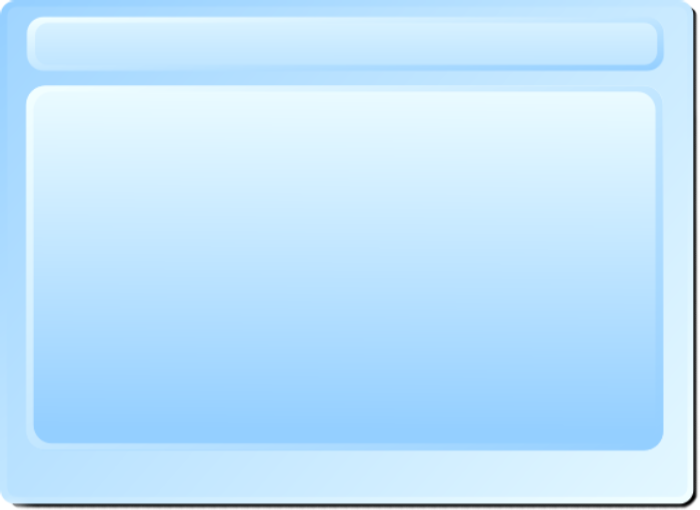
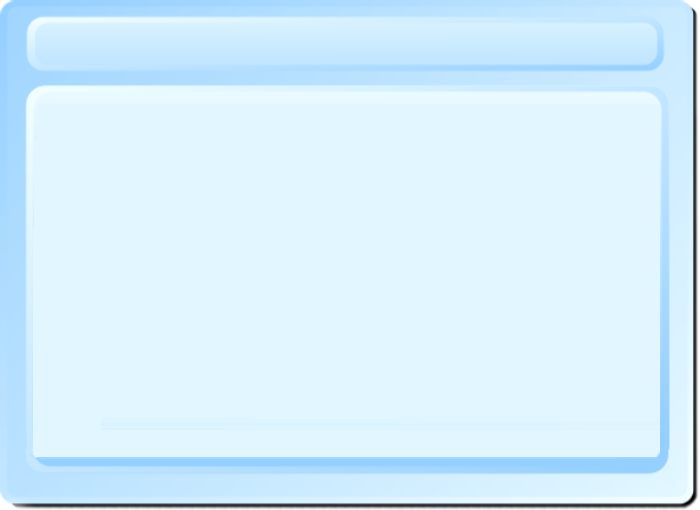
Added scroolbars in the help dialogs. 	Added an entry in skin.c to get a GdkColor : gcompris_skin_get_gdkcolor() 	Changed confirmation dialog to use the new colors for dialogs in skins

diff --git a/src/gcompris/help.c b/src/gcompris/help.c
@@ -1,6 +1,6 @@
 /* gcompris - help.c
  *
- * Time-stamp: <2005/10/31 23:00:03 bruno>
+ * Time-stamp: <2006/04/09 23:28:08 bruno>
  *
  * Copyright (C) 2000 Bruno Coudoin
  *
@@ -23,6 +23,7 @@
  * The bar button common to each games
  *
  */
+#include <string.h>
 
 #include "gcompris.h"
 
@@ -35,9 +36,6 @@
 
 #define GAP_TO_BUTTON -20
 
-#define COLOR_SELECTED   0x34682aFF
-#define COLOR_UNSELECTED 0x4252ffFF
-
 static gint	 item_event_help(GnomeCanvasItem *item, GdkEvent *event, gpointer data);
 static void	 select_item(GnomeCanvasItem *item, GnomeCanvasItem *item_text);
 static void	 set_content(char *text);
@@ -45,7 +43,6 @@ static void	 set_content(char *text);
 static gboolean help_displayed			= FALSE;
 
 static GnomeCanvasItem *rootitem		= NULL;
-static GnomeCanvasItem *item_content		= NULL;
 
 static gchar *prerequisite			= NULL;
 static gchar *goal				= NULL;
@@ -65,7 +62,7 @@ static GnomeCanvasItem *item_credit_text        = NULL;
 static GnomeCanvasItem *item_selected		= NULL;
 static GnomeCanvasItem *item_selected_text	= NULL;
 
-
+static GtkTextBuffer   *buffer_content;
 /*
  * Main entry point 
  * ----------------
@@ -205,7 +202,7 @@ void gcompris_help_start (GcomprisBoard *gcomprisBoard)
 				    "x", (double)  BOARDWIDTH*0.20,
 				    "y", (double)  y_start - gdk_pixbuf_get_height(pixmap)  + GAP_TO_BUTTON,
 				    "anchor", GTK_ANCHOR_CENTER,
-				    "fill_color_rgba", COLOR_UNSELECTED,
+				    "fill_color_rgba", gcompris_skin_get_color("gcompris/helpunselect"),
 				    NULL);
       gtk_signal_connect(GTK_OBJECT(item_prerequisite_text), "event",
 			 (GtkSignalFunc) item_event_help,
@@ -233,7 +230,7 @@ void gcompris_help_start (GcomprisBoard *gcomprisBoard)
 				    "x", (double)  BOARDWIDTH*0.4,
 				    "y", (double)  y_start - gdk_pixbuf_get_height(pixmap)  + GAP_TO_BUTTON,
 				    "anchor", GTK_ANCHOR_CENTER,
-				    "fill_color_rgba", COLOR_UNSELECTED,
+				    "fill_color_rgba", gcompris_skin_get_color("gcompris/helpunselect"),
 				    NULL);
       gtk_signal_connect(GTK_OBJECT(item_goal_text), "event",
 			 (GtkSignalFunc) item_event_help,
@@ -261,7 +258,7 @@ void gcompris_help_start (GcomprisBoard *gcomprisBoard)
 				    "x", (double)  BOARDWIDTH*0.6,
 				    "y", (double)  y_start - gdk_pixbuf_get_height(pixmap)  + GAP_TO_BUTTON,
 				    "anchor", GTK_ANCHOR_CENTER,
-				    "fill_color_rgba", COLOR_UNSELECTED,
+				    "fill_color_rgba", gcompris_skin_get_color("gcompris/helpunselect"),
 				    NULL);
       gtk_signal_connect(GTK_OBJECT(item_manual_text), "event",
 			 (GtkSignalFunc) item_event_help,
@@ -289,7 +286,7 @@ void gcompris_help_start (GcomprisBoard *gcomprisBoard)
 				    "x", (double)  BOARDWIDTH*0.8,
 				    "y", (double)  y_start - gdk_pixbuf_get_height(pixmap)  + GAP_TO_BUTTON,
 				    "anchor", GTK_ANCHOR_CENTER,
-				    "fill_color_rgba", COLOR_UNSELECTED,
+				    "fill_color_rgba", gcompris_skin_get_color("gcompris/helpunselect"),
 				    NULL);
       gtk_signal_connect(GTK_OBJECT(item_credit_text), "event",
 			 (GtkSignalFunc) item_event_help,
@@ -325,21 +322,44 @@ void gcompris_help_start (GcomprisBoard *gcomprisBoard)
 
   y_start += 5;
 
-  item_content = gnome_canvas_item_new (GNOME_CANVAS_GROUP(rootitem),
-					gnome_canvas_rich_text_get_type (),
-					"x", (double)  x_start + 40,
-					"y", (double)  y_start,
-					"width", 620.0,
-					"height", 400.0,
-					"anchor", GTK_ANCHOR_NW,
-					"grow_height", FALSE,
-					"cursor_visible", FALSE,
-					"cursor_blink", FALSE,
-					"editable", FALSE,
-					NULL);
+  /* Create a scrolled area for the text content */
+  GtkWidget *view;
+  GtkWidget *sw;
+  view = gtk_text_view_new ();
+  gtk_text_view_set_wrap_mode (GTK_TEXT_VIEW (view), GTK_WRAP_WORD);
+  gtk_text_view_set_editable(GTK_TEXT_VIEW (view), FALSE);
+  gtk_text_view_set_cursor_visible(GTK_TEXT_VIEW (view), FALSE);
+
+  PangoFontDescription *font_desc;
+  font_desc = pango_font_description_from_string (gcompris_skin_font_content);
+  gtk_widget_modify_font (view, font_desc);
+  pango_font_description_free (font_desc);
+
+  GdkColor fg_color;
+  GdkColor bg_color;
+  gcompris_skin_get_gdkcolor("gcompris/helpfg", &fg_color);
+  gcompris_skin_get_gdkcolor("gcompris/helpbg", &bg_color);
+  gtk_widget_modify_base(view, GTK_STATE_NORMAL, &bg_color);
+  gtk_widget_modify_text(view, GTK_STATE_NORMAL, &fg_color);
+
+  buffer_content = gtk_text_view_get_buffer (GTK_TEXT_VIEW (view));
+  sw = gtk_scrolled_window_new (NULL, NULL);
+  gtk_scrolled_window_set_policy (GTK_SCROLLED_WINDOW (sw),
+				  GTK_POLICY_AUTOMATIC,
+				  GTK_POLICY_AUTOMATIC);
+  gtk_container_add (GTK_CONTAINER (sw), view);
+
+  gnome_canvas_item_new (GNOME_CANVAS_GROUP(rootitem),
+			 gnome_canvas_widget_get_type (),
+			 "widget", GTK_WIDGET(sw),
+			 "x", (double)  x_start + 40,
+			 "y", (double)  y_start,
+			 "width",  618.0,
+			 "height", 280.0,
+			 NULL);
+  gtk_widget_show_all (sw);
 
   set_content(text_to_display);
-
   // OK
   pixmap = gcompris_load_skin_pixmap("button_large.png");
 
@@ -403,10 +423,6 @@ void gcompris_help_stop ()
 	  // Destroy the help box
 	  if(rootitem!=NULL)
 	    {
-	      /* WORKAROUND: There is a bug in the richtex item and we need to remove it first */
-	      while (g_idle_remove_by_data (item_content));
-	      gtk_object_destroy (item_content);
-
 	      gtk_object_destroy(GTK_OBJECT(rootitem));
 	      gcomprisBoard->plugin->pause_board(FALSE);
 	    }
@@ -438,7 +454,7 @@ static void select_item(GnomeCanvasItem *item, GnomeCanvasItem *item_text)
 			    "pixbuf", pixmap,
 			    NULL);
       gnome_canvas_item_set(item_selected_text, 
-			    "fill_color_rgba", COLOR_UNSELECTED,
+			    "fill_color_rgba", gcompris_skin_get_color("gcompris/helpunselect"),
 			    NULL);
 
       gdk_pixbuf_unref(pixmap);
@@ -452,32 +468,17 @@ static void select_item(GnomeCanvasItem *item, GnomeCanvasItem *item_text)
 			NULL);
   gdk_pixbuf_unref(pixmap);
   gnome_canvas_item_set(item_text, 
-			"fill_color_rgba", COLOR_SELECTED,
+			"fill_color_rgba", gcompris_skin_get_color("gcompris/helpselect"),
 			NULL);
   item_selected = item;
   item_selected_text = item_text;
 }
 
 /* Apply the style to the given RichText item  */
-static void set_content(gchar *text) {
-
-  GtkTextIter    iter_start, iter_end;
-  GtkTextBuffer *buffer;
-  GtkTextTag    *txt_tag;
-
-  gnome_canvas_item_set(item_content, 
-			"text", text,
-			NULL);
-
-  buffer  = gnome_canvas_rich_text_get_buffer(GNOME_CANVAS_RICH_TEXT(item_content));
-  txt_tag = gtk_text_buffer_create_tag(buffer, NULL, 
-				       "foreground", "blue",
-				       "font",       "Sans 10",
-				       NULL);
-  gtk_text_buffer_get_end_iter(buffer, &iter_end);
-  gtk_text_buffer_get_start_iter(buffer, &iter_start);
-  gtk_text_buffer_apply_tag(buffer, txt_tag, &iter_start, &iter_end);
-
+static void set_content(gchar *text)
+{
+  gtk_text_buffer_set_text (buffer_content, "", 0);
+  gtk_text_buffer_insert_at_cursor(buffer_content, text, -1);
 }
 
 /* Callback for the bar operations */

diff --git a/src/gcompris/gcompris_confirm.c b/src/gcompris/gcompris_confirm.c
@@ -1,6 +1,6 @@
 /* gcompris - gcompris_confirm.c
  *
- * Time-stamp: <2006/01/29 16:06:02 bruno>
+ * Time-stamp: <2006/04/10 00:00:58 bruno>
  *
  * Copyright (C) 2000 Bruno Coudoin
  *
@@ -336,7 +336,7 @@ display_confirm(gchar *title,
 			 "x", (double)  button_x + gdk_pixbuf_get_width(pixmap) + button_x_int ,
 			 "y", (double)  button_y + 2*button_h/3,
 			 "anchor", GTK_ANCHOR_WEST,
-			 "fill_color_rgba", gcompris_skin_color_text_button,
+			 "fill_color_rgba", gcompris_skin_get_color("gcompris/helpfg"),
 			 NULL);
 
   // OK
@@ -384,7 +384,7 @@ display_confirm(gchar *title,
 				 "x", (double)  button_x + gdk_pixbuf_get_width(pixmap) + button_x_int ,
 				 "y", (double)  button_y + button_h/3,
 				 "anchor", GTK_ANCHOR_WEST,
-				 "fill_color_rgba", gcompris_skin_color_text_button,
+				 "fill_color_rgba", gcompris_skin_get_color("gcompris/helpfg"),
 				 NULL);
 
   confirm_displayed = TRUE;
@@ -428,6 +428,7 @@ set_content(GnomeCanvasRichText *item_content,
 
   color_string = g_strdup_printf("#%x", gcompris_skin_color_shadow >> 8);
   gdk_color_parse(color_string, color_s);
+  g_free(color_string);
   success = gdk_colormap_alloc_color(gdk_colormap_get_system(), 
 				     color_s,
   				     FALSE, TRUE); 
@@ -441,13 +442,13 @@ set_content(GnomeCanvasRichText *item_content,
   gtk_text_buffer_get_start_iter(buffer, &iter_start);
   gtk_text_buffer_apply_tag(buffer, txt_tag, &iter_start, &iter_end);
 
-  g_free(color_string);
 
   /* 
    * Set the text
    */
-  color_string = g_strdup_printf("#%x", gcompris_skin_get_color("menu/text") >> 8);
+  color_string = g_strdup_printf("#%x", gcompris_skin_get_color("gcompris/helpunselect") >> 8);
   gdk_color_parse(color_string, color);
+  g_free(color_string);
   success = gdk_colormap_alloc_color(gdk_colormap_get_system(), 
 				     color,
   				     FALSE, TRUE); 

diff --git a/src/gcompris/skin.c b/src/gcompris/skin.c
@@ -299,8 +299,8 @@ void gcompris_skin_xml_load (gchar* skin)
   while(node !=NULL)
     {
       if(g_strcasecmp((gchar *)node->name, "color")==0){
-	key = xmlGetProp(node, "id");
-	data = xmlGetProp(node, "rgba");
+	key = xmlGetProp(node,  BAD_CAST "id");
+	data = xmlGetProp(node,  BAD_CAST "rgba");
 	if((key!=NULL)&&(data!=NULL)){
 	  if(gcompris_skin_str_to_color(data, &color)){
 	    g_hash_table_insert(gcompris_skin_colors, key, GUINT_TO_POINTER(color));
@@ -311,8 +311,8 @@ void gcompris_skin_xml_load (gchar* skin)
 	if(data!=NULL) g_free(data);
       } 
       else if(g_strcasecmp((gchar *)node->name, "font")==0){
-	key = xmlGetProp(node, "id");
-	data = xmlGetProp(node, "name");
+	key = xmlGetProp(node,  BAD_CAST "id");
+	data = xmlGetProp(node,  BAD_CAST "name");
 	if((key!=NULL)&&(data!=NULL)){
 	  g_hash_table_insert(gcompris_skin_fonts, key, data);
 	} else {
@@ -387,6 +387,23 @@ guint32 gcompris_skin_get_color_default(gchar* id, guint32 def)
   if(result!=NULL)
     return GPOINTER_TO_UINT(result);
   return def;
+}
+
+/*
+ * Get the skin gdkcolor associated to the id
+ *
+ * The color is returned in the given gdkcolor
+ */
+void gcompris_skin_get_gdkcolor_default(gchar* id, guint32 def, GdkColor *gdkcolor)
+{
+  gchar *tmp;
+  guint32 color;
+
+  color = gcompris_skin_get_color_default(id, def);
+
+  tmp = g_strdup_printf("#%06X", gcompris_skin_get_color(id) >> 8);
+  gdk_color_parse(tmp, gdkcolor);
+  g_free(tmp);
 }
 
 /*

diff --git a/src/gcompris/skin.h b/src/gcompris/skin.h
@@ -52,10 +52,12 @@ void            gcompris_skin_load (gchar* skin);
 void            gcompris_skin_free (void);
 
 guint32         gcompris_skin_get_color_default(gchar* id, guint32 def);
+void		gcompris_skin_get_gdkcolor_default(gchar* id, guint32 def, GdkColor *gdkcolor);
 gchar*          gcompris_skin_get_font_default(gchar* id, gchar* def);
 
-#define gcompris_skin_get_color(id)  gcompris_skin_get_color_default(id, 0x0D0DFA00)
-#define gcompris_skin_get_font(id)   gcompris_skin_get_font_default(id, "Sans 12")
-#define gcompris_skin_get_number(id) gcompris_skin_get_number_default(id, 0)
+#define gcompris_skin_get_gdkcolor(id, gdkcolor) gcompris_skin_get_gdkcolor_default(id, 0x0D0DFA00, gdkcolor)
+#define gcompris_skin_get_color(id)     gcompris_skin_get_color_default(id, 0x0D0DFA00)
+#define gcompris_skin_get_font(id)      gcompris_skin_get_font_default(id, "Sans 12")
+#define gcompris_skin_get_number(id)    gcompris_skin_get_number_default(id, 0)
 
 #endif
